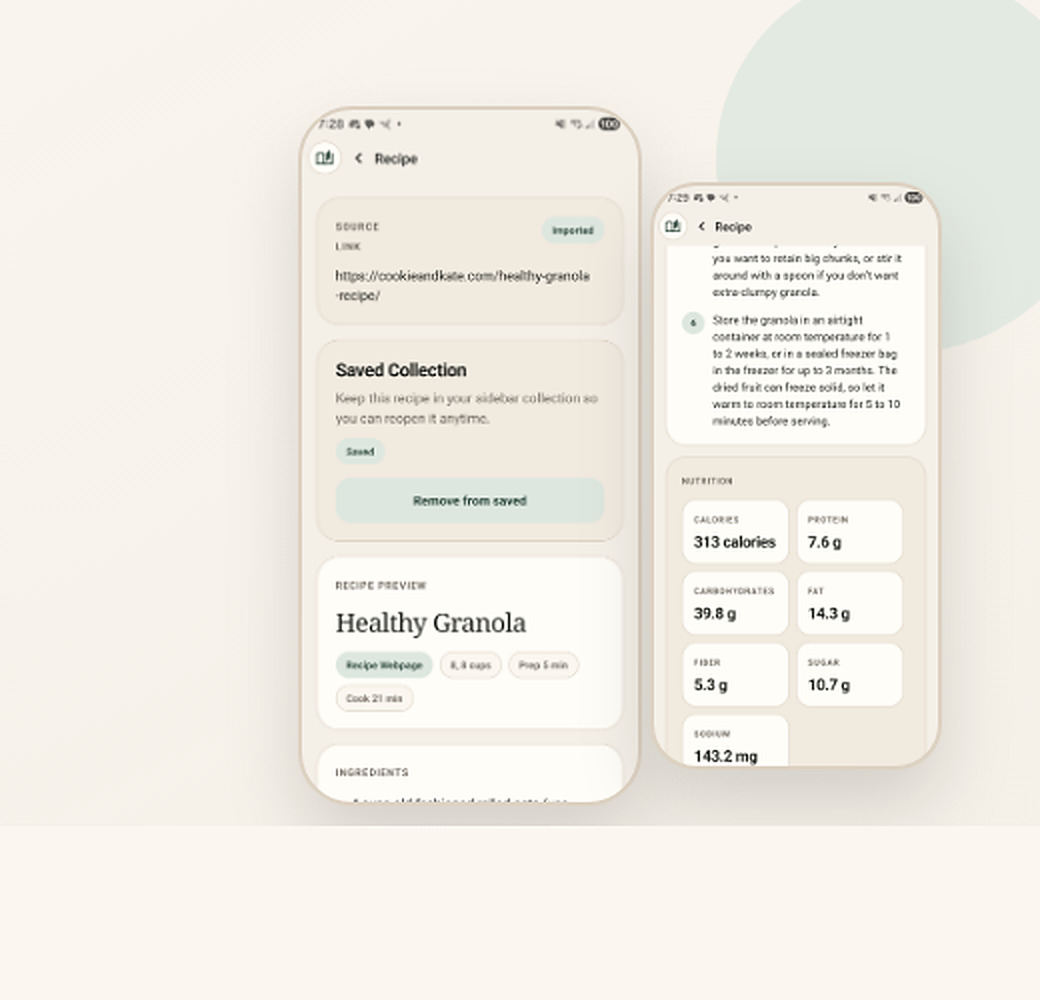
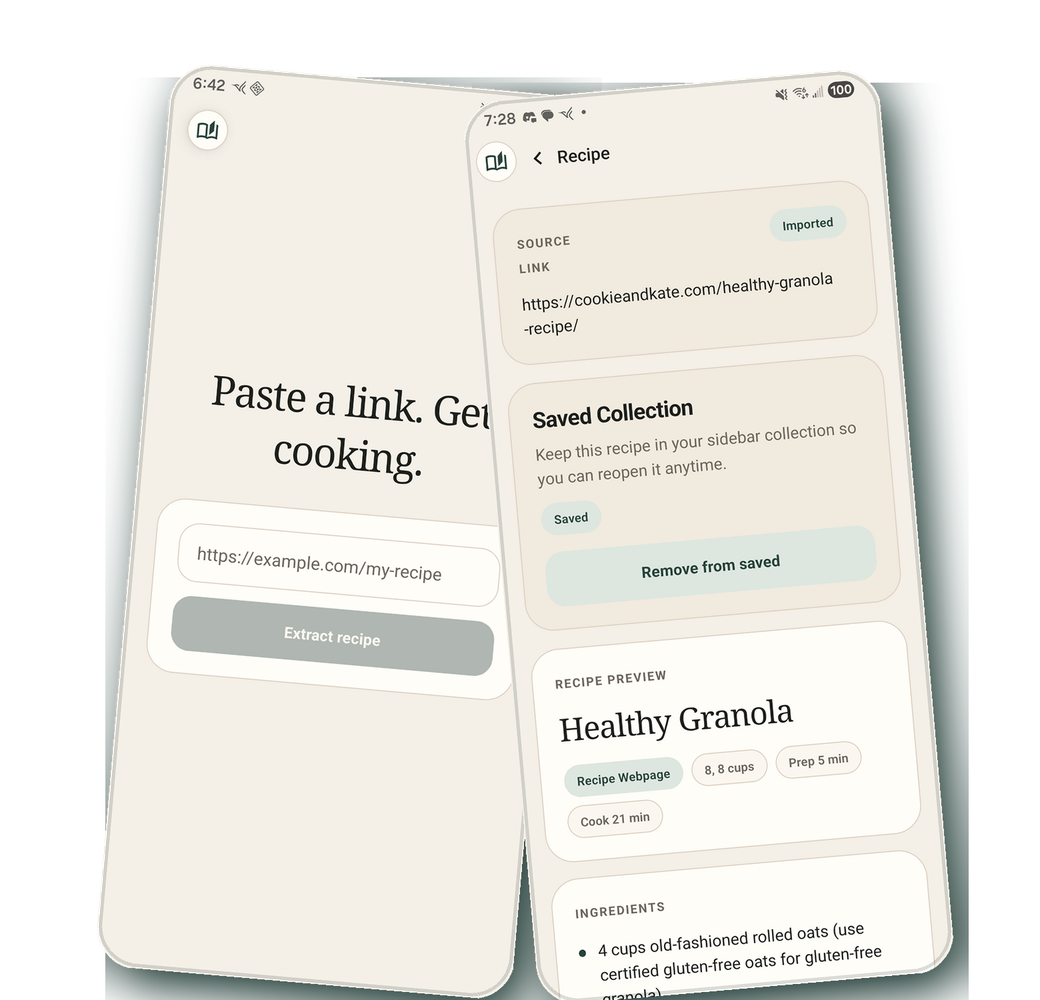
Use high resolution app screenshots

diff --git a/styles.css b/styles.css
@@ -111,7 +111,12 @@ a {
       rgba(12, 42, 36, 0.88) 50%,
       rgba(12, 42, 36, 0.14) 100%
     ),
-    url("assets/hero-phones.png") right center / auto 100% no-repeat,
+    image-set(
+        url("assets/hero-phones.png") 1x,
+        url("assets/[email redacted]") 2x,
+        url("assets/[email redacted]") 3x
+      )
+      right center / auto 100% no-repeat,
     linear-gradient(90deg, var(--forest-strong) 0%, var(--forest) 58%, #edf2e9 100%);
   color: #ffffff;
   min-height: 78svh;
@@ -429,7 +434,12 @@ a {
         rgba(12, 42, 36, 0.86) 58%,
         rgba(12, 42, 36, 0.46) 100%
       ),
-      url("assets/hero-phones.png") center bottom / auto 62% no-repeat,
+      image-set(
+          url("assets/hero-phones.png") 1x,
+          url("assets/[email redacted]") 2x,
+          url("assets/[email redacted]") 3x
+        )
+        center bottom / auto 62% no-repeat,
       var(--forest-strong);
     min-height: 84svh;
     padding-top: 164px;